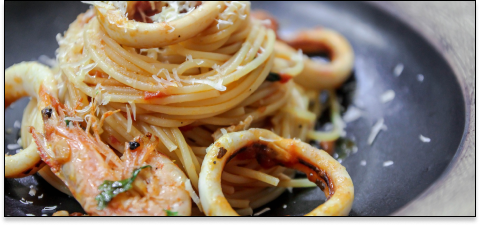
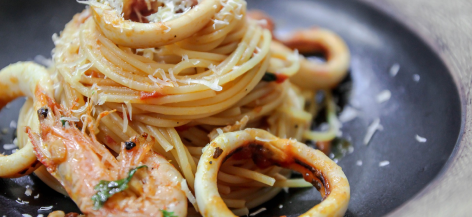
home completa

diff --git a/src/pages/Home/index.tsx b/src/pages/Home/index.tsx
@@ -1,8 +1,73 @@
 import ProdutcList from '../../components/ProdutcList'
+import Header from '../../components/HeaderHome'
+import Footer from '../../components/footer'
+import Food from '../../models/Food'
+
+import macarrao from '../../assets/images/macarrao.png'
+import sushi from '../../assets/images/sushi.png'
+
+const cardapio: Food[] = [
+  {
+    id: 1,
+    infos: ['Destaque da semana', 'Japonesa'],
+    description:
+      'Peça já o melhor da culinária japonesa no conforto da sua casa! Sushis frescos, sashimis deliciosos e pratos quentes irresistíveis. Entrega rápida, embalagens cuidadosas e qualidade garantida.Experimente o Japão sem sair do lar com nosso delivery!s',
+    title: 'Hioki Sushi',
+    image: `${sushi}`,
+    evaluation: 4.9
+  },
+  {
+    id: 2,
+    infos: ['Italiana'],
+    description:
+      'A La Dolce Vita Trattoria leva a autêntica cozinha italiana até você! Desfrute de massas caseiras, pizzas deliciosas e risotos incríveis, tudo no conforto do seu lar. Entrega rápida, pratos bem embalados e sabor inesquecível. Peça já!',
+    title: 'La Dolce Vita Trattoria',
+    image: `${macarrao}`,
+    evaluation: 4.6
+  },
+  {
+    id: 3,
+    infos: ['Italiana'],
+    description:
+      'A La Dolce Vita Trattoria leva a autêntica cozinha italiana até você! Desfrute de massas caseiras, pizzas deliciosas e risotos incríveis, tudo no conforto do seu lar. Entrega rápida, pratos bem embalados e sabor inesquecível. Peça já!',
+    title: 'La Dolce Vita Trattoria',
+    image: `${macarrao}`,
+    evaluation: 4.6
+  },
+  {
+    id: 4,
+    infos: ['Italiana'],
+    description:
+      'A La Dolce Vita Trattoria leva a autêntica cozinha italiana até você! Desfrute de massas caseiras, pizzas deliciosas e risotos incríveis, tudo no conforto do seu lar. Entrega rápida, pratos bem embalados e sabor inesquecível. Peça já!',
+    title: 'La Dolce Vita Trattoria',
+    image: `${macarrao}`,
+    evaluation: 4.6
+  },
+  {
+    id: 5,
+    infos: ['Italiana'],
+    description:
+      'A La Dolce Vita Trattoria leva a autêntica cozinha italiana até você! Desfrute de massas caseiras, pizzas deliciosas e risotos incríveis, tudo no conforto do seu lar. Entrega rápida, pratos bem embalados e sabor inesquecível. Peça já!',
+    title: 'La Dolce Vita Trattoria',
+    image: `${macarrao}`,
+    evaluation: 4.6
+  },
+  {
+    id: 6,
+    infos: ['Italiana'],
+    description:
+      'A La Dolce Vita Trattoria leva a autêntica cozinha italiana até você! Desfrute de massas caseiras, pizzas deliciosas e risotos incríveis, tudo no conforto do seu lar. Entrega rápida, pratos bem embalados e sabor inesquecível. Peça já!',
+    title: 'La Dolce Vita Trattoria',
+    image: `${macarrao}`,
+    evaluation: 4.6
+  }
+]
 
 const Home = () => (
   <>
-    <ProdutcList />
+    <Header />
+    <ProdutcList foods={cardapio} />
+    <Footer />
   </>
 )
 

diff --git a/src/components/Produtc/index.tsx b/src/components/Produtc/index.tsx
@@ -8,31 +8,35 @@ import {
   Infos
 } from './styles'
 import star from '../../assets/images/star.png'
-import food from '../../assets/images/macarrao.png'
 import Tag from '../Tag'
+import Food from '../../models/Food'
 
-const Produtc = () => (
-  <Card>
+const Produtc = ({
+  description,
+  evaluation,
+  id,
+  image,
+  infos,
+  title
+}: Food) => (
+  <Card id={`${id}`}>
     <AreaImg>
-      <img src={food} alt="comida" />
+      <img src={image} alt="comida" />
       <Infos>
-        <Tag>teste</Tag>
+        {infos.map((info) => (
+          <Tag key={info}>{info}</Tag>
+        ))}
       </Infos>
     </AreaImg>
     <AreaText>
       <TitleList>
-        <Title>Hioki Sushi</Title>
+        <Title>{title}</Title>
         <Value>
-          <p>4.9</p>
+          <p>{evaluation}</p>
           <img src={star} alt="estrela" />
         </Value>
       </TitleList>
-      <p>
-        Peça já o melhor da culinária japonesa no conforto da sua casa! Sushis
-        frescos, sashimis deliciosos e pratos quentes irresistíveis. Entrega
-        rápida, embalagens cuidadosas e qualidade garantida.Experimente o Japão
-        sem sair do lar com nosso delivery!
-      </p>
+      <p>{description}</p>
       <Tag>Saiba mais</Tag>
     </AreaText>
   </Card>

diff --git a/src/components/ProdutcList/index.tsx b/src/components/ProdutcList/index.tsx
@@ -1,16 +1,27 @@
+import Food from '../../models/Food'
 import Produtc from '../Produtc'
 import { Container, List } from './styles'
 
-const ProdutcList = () => (
+type Props = {
+  foods: Food[]
+}
+
+const ProdutcList = ({ foods }: Props) => (
   <Container>
     <div className="container">
       <List>
-        <li>
-          <Produtc />
-        </li>
-        <li>
-          <Produtc />
-        </li>
+        {foods.map((food) => (
+          <li key={food.id}>
+            <Produtc
+              description={food.description}
+              evaluation={food.evaluation}
+              id={food.id}
+              image={food.image}
+              infos={food.infos}
+              title={food.title}
+            />
+          </li>
+        ))}
       </List>
     </div>
   </Container>

diff --git a/src/components/footer/index.tsx b/src/components/footer/index.tsx
@@ -1,0 +1,19 @@
+import { FooterBar, Title } from './styles'
+import logo from '../../assets/images/logo.png'
+import redes from '../../assets/images/redes_sociais.png'
+
+const Footer = () => (
+  <FooterBar>
+    <div className="container">
+      <img src={logo} alt="logo" />
+      <img src={redes} alt="redes socias" className="redes" />
+      <Title>
+        A efood é uma plataforma para divulgação de estabelecimentos, a
+        responsabilidade pela entrega, qualidade dos produtos é toda do
+        estabelecimento contratado.
+      </Title>
+    </div>
+  </FooterBar>
+)
+
+export default Footer

diff --git a/src/components/Produtc/styles.ts b/src/components/Produtc/styles.ts
@@ -15,27 +15,26 @@ export const Card = styled.div`
 export const AreaImg = styled.div`
   width: 100%;
   height: 100%;
-
+  margin-bottom: -5px;
   img {
     width: 100%;
-    height: 100%;
+    height: auto;
   }
 `
 
 export const Infos = styled.div`
   position: absolute;
   top: 0;
-  right: 1rem;
+  right: 0.5rem;
 `
 
 export const AreaText = styled.div`
   border: 1px solid ${cores.rosa};
   border-top: none;
-  max-width: 464px;
   width: 100%;
-  height: 100%;
-  margin-top: -8px;
+  height: auto;
   padding: 8px;
+
   img {
     width: 100%;
     height: 100%;

diff --git a/src/components/footer/styles.ts b/src/components/footer/styles.ts
@@ -1,0 +1,28 @@
+import styled from 'styled-components'
+import { cores } from '../../styles/index'
+
+export const FooterBar = styled.footer`
+  background-color: ${cores.bege};
+  width: 100%;
+  max-height: 384px;
+  height: 100%;
+  padding: 2.5rem 0px;
+
+  .container {
+    text-align: center;
+    max-width: 580px;
+    display: flex;
+    flex-direction: column;
+    align-items: center;
+
+    .redes {
+      padding-top: 32.5px;
+      padding-bottom: 80px;
+    }
+  }
+`
+
+export const Title = styled.h1`
+  display: inline-block;
+  font-size: 10px;
+`

diff --git a/src/models/Food.ts b/src/models/Food.ts
@@ -2,20 +2,20 @@ class Food {
   title: string
   evaluation: number
   description: string
-  category: string[]
+  infos: string[]
   image: string
   id: number
 
   constructor(
     title: string,
-    category: string[],
+    infos: string[],
     evaluation: number,
     description: string,
     image: string,
     id: number
   ) {
     this.title = title
-    this.category = category
+    this.infos = infos
     this.evaluation = evaluation
     this.description = description
     this.image = image

diff --git a/src/components/HeaderHome/index.tsx b/src/components/HeaderHome/index.tsx
@@ -1,7 +1,7 @@
 import { HeaderBar, Title } from './styles'
 import logo from '../../assets/images/logo.png'
 
-const Header = () => (
+const HeaderHome = () => (
   <HeaderBar>
     <div className="container">
       <img src={logo} alt="logo" />
@@ -10,4 +10,4 @@ const Header = () => (
   </HeaderBar>
 )
 
-export default Header
+export default HeaderHome

diff --git a/src/components/HeaderHome/styles.ts b/src/components/HeaderHome/styles.ts
@@ -4,9 +4,9 @@ import { cores } from '../../styles/index'
 export const HeaderBar = styled.header`
   background-color: ${cores.bege};
   width: 100%;
-  height: 384px;
-  padding-top: 1.25rem;
-  margin-bottom: 2rem;
+  max-height: 384px;
+  height: 100%;
+  padding: 1.25rem 0px;
 
   .container {
     text-align: center;

diff --git a/src/App.tsx b/src/App.tsx
@@ -1,13 +1,11 @@
 import Rotas from './Routes'
 import GlobalCss from './styles'
 import { BrowserRouter } from 'react-router-dom'
-import Header from './components/Header'
 
 function App() {
   return (
     <BrowserRouter>
       <GlobalCss />
-      <Header />
       <Rotas />
     </BrowserRouter>
   )

diff --git a/src/components/Tag/styles.ts b/src/components/Tag/styles.ts
@@ -6,6 +6,7 @@ export const TagContainer = styled.div<Props>`
   background-color: ${cores.rosa};
   margin-top: 1rem;
   margin-bottom: 8px;
+  margin-right: 8px;
   padding 4px 6px;
   color: #fff;
   font-weight: bold;

diff --git a/src/components/ProdutcList/styles.ts b/src/components/ProdutcList/styles.ts
@@ -3,6 +3,7 @@ import styled from 'styled-components'
 export const Container = styled.header`
   width: 100%;
   height: 100%;
+  padding: 2rem 0px;
 `
 
 export const List = styled.ul`
